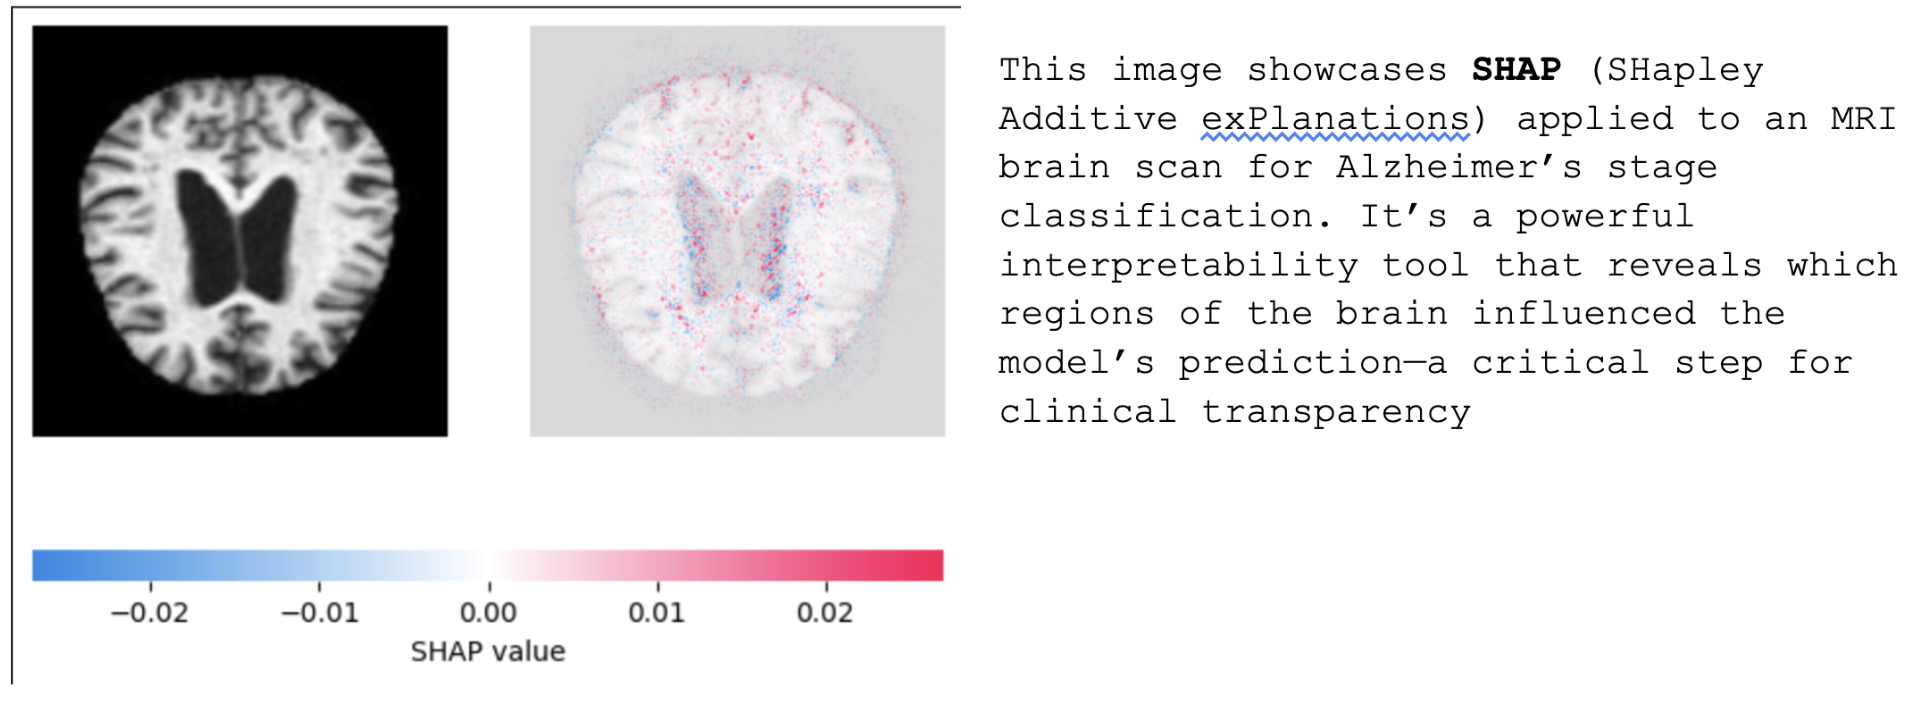
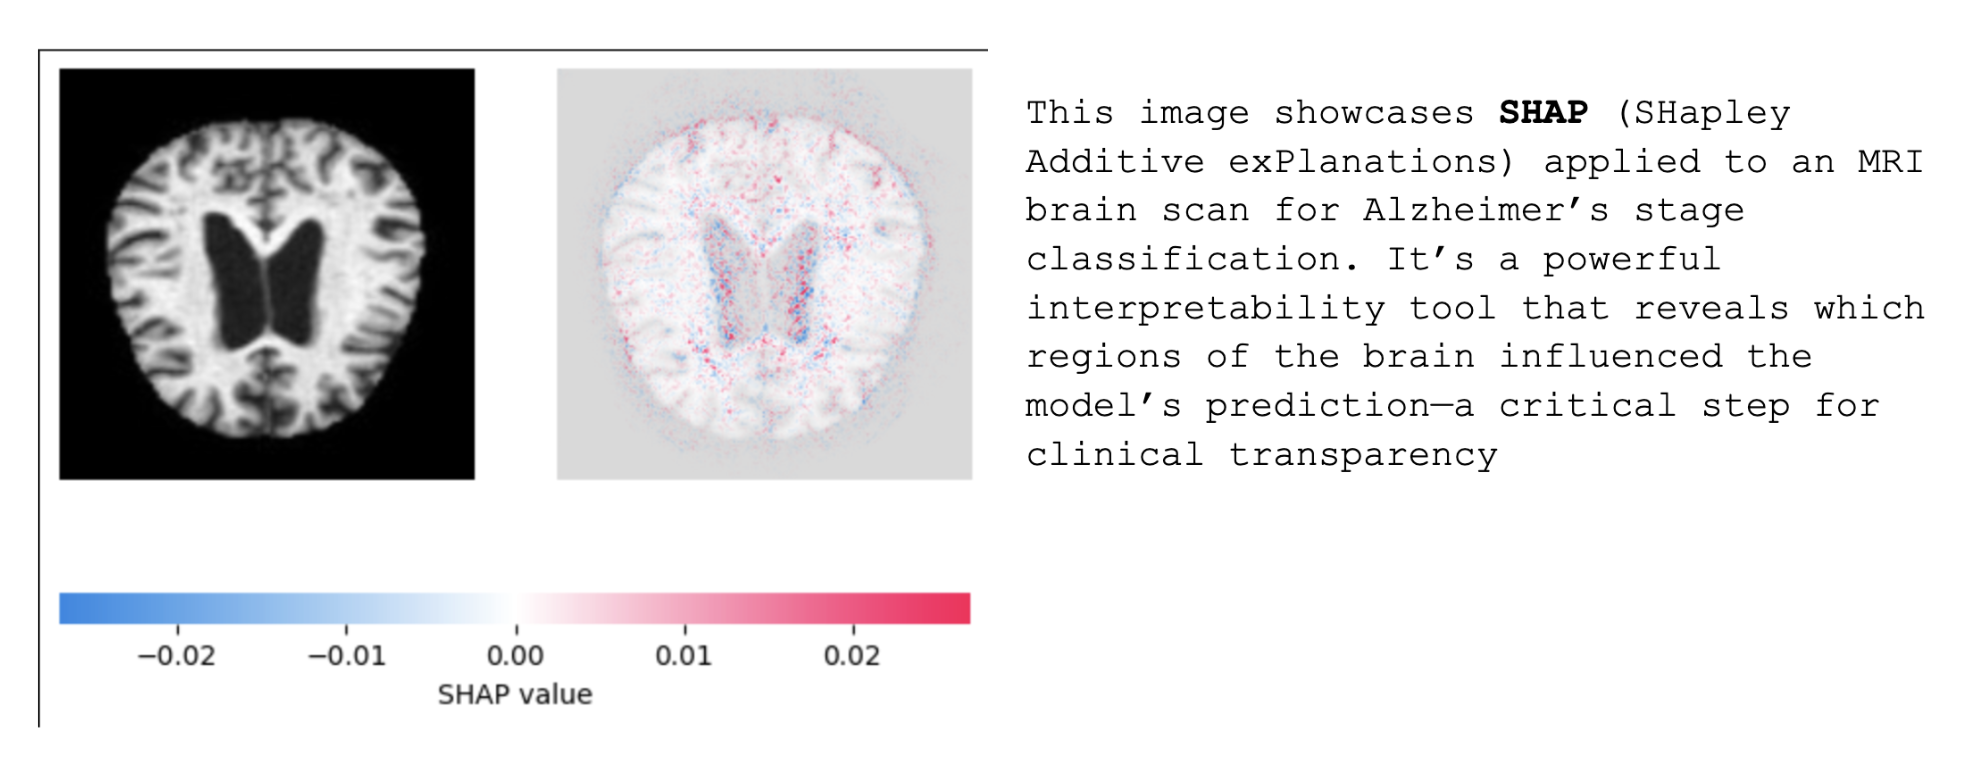
read me commit

diff --git a/README.md b/README.md
@@ -57,19 +57,19 @@ The model is trained on publicly available **Kaggle Alzheimer’s MRI datasets**
 ### 🔹 Grad-CAM Overlays
 - Highlights spatial attention per class  
 - Distinct activation patterns across stages  
-![Grad-CAM Visualization](path/to/gradcam_image.png)
+![Grad-CAM Visualization](./data/grad.png)
 
 ### 🔹 Confidence Scores
 - Per-sample prediction certainty across 4 classes  
-![Confidence Score Chart](path/to/confidence_chart.png)
+![Confidence Score Chart](./data/cs.png)
 
 ### 🔹 Prediction Uncertainty
 - Entropy-based visualization for 10 samples  
-![Entropy Plot](path/to/entropy_plot.png)
+![Entropy Plot](./data/pu.png)
 
 ### 🔹 Confusion Matrix
 - True vs predicted label distribution  
-![Confusion Matrix](path/to/confusion_matrix.png)
+![Confusion Matrix](./data/cm.png)
 
 ---
 
